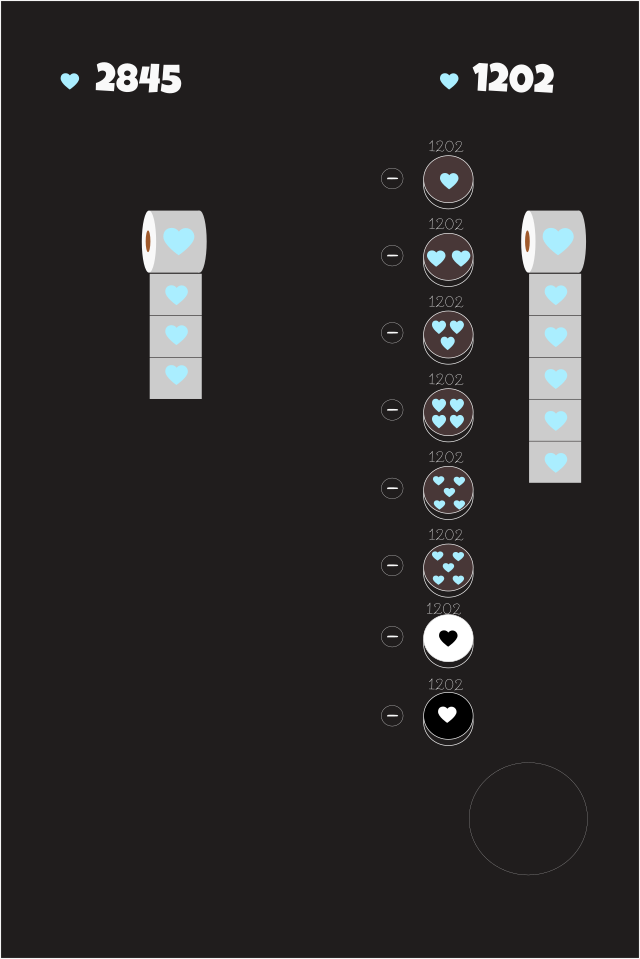
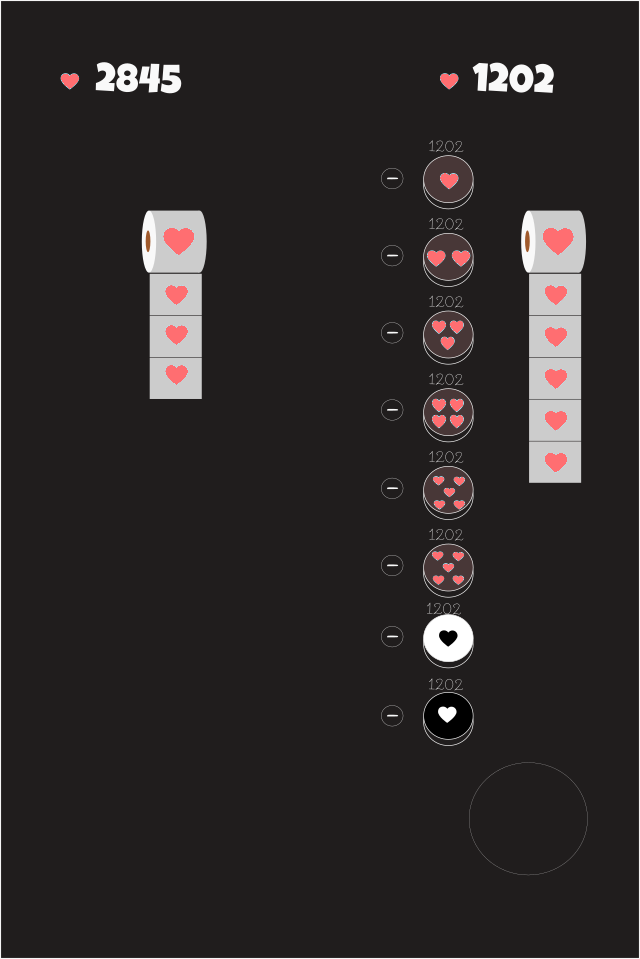
proto + change colors

diff --git a/src/background.js b/src/background.js
@@ -21,7 +21,7 @@ draw_background = function(game){
 	this.g0=G.timerGroup0
 
 	this.color_player=blue
-	this.color_opponent=beige
+	this.color_opponent=rose
 
 	//fond du background
 	Phaser.Sprite.call(this,game,0,0,'back')
@@ -119,8 +119,9 @@ draw_background = function(game){
 	this.player.inputEnabled=true
 
 	//ombre pour symboliser la table
-	this.table_player=drawSprite(this.g3tris,game,"rect",w2,h2,w2,h2,0,black,.2) 
-	this.table_opponent=drawSprite(this.g3tris,game,"rect",0,h2,w2,h2,0,black,.1) 
+	this.table_player=drawSprite(this.g3tris,game,"rect",w2,h2,w2,h2,0,black,.5) 
+	//this.table_opponent_cache=drawSprite(this.g3tris,game,"rect",0,0,w2,h,0,red,.5) 
+	this.table_opponent=drawSprite(this.g3tris,game,"rect",0,h2,w2,h2,0,black,.5) 
 
 	//lignes à traits tirés pour symboliser la chute imminente
 	var longeur_line=w/6
@@ -155,11 +156,11 @@ draw_background = function(game){
 
 	//texte symbolisant l'ombre sous le player et dont la visibilité apparait dans update via the Game.js
 	//player
-	this.text_name_player_shadow = game.add.bitmapText(w4*3+3,py1+3,'lucky_grey','dev', taille) 
+	this.text_name_player_shadow = game.add.bitmapText(w4*3+3,py1+3,'lucky_black','dev', taille) 
 	this.text_name_player_shadow.alpha=.5
 	this.text_name_player_shadow.visible=false
-	this.text_name_player = game.add.bitmapText(w4*3,py1,'lucky_grey','dev', taille) 
-	this.text_level_player = game.add.bitmapText(w4*3,py3,'lucky','lvl ', taille2) 
+	this.text_name_player = game.add.bitmapText(w4*3,py1,'lucky_black','dev', taille) 
+	this.text_level_player = game.add.bitmapText(w4*3,py3,'lucky_black','lvl ', taille2) 
 	this.text_level_player.alpha=0
 	this.text_level_number_player=game.add.bitmapText(w4*3+30,py3,'lucky','1', taille2) 
 	this.text_level_number_player.tint=jaune
@@ -191,7 +192,7 @@ draw_background = function(game){
 	this.text_win_player.visible=false
 	this.text_win_player.alpha=0
 	//OPPONENT 
-	this.text_name_opponent = game.add.bitmapText(w4,py1,'lucky_grey','kill the game', taille) 
+	this.text_name_opponent = game.add.bitmapText(w4,py1,'lucky','kill the game', taille) 
 	this.text_level_opponent = game.add.bitmapText(w4,py3,'lucky','lvl ', taille2) 
 	this.text_level_opponent.alpha=0
 	this.text_level_number_opponent=game.add.bitmapText(w4+30,py3,'lucky','5', taille2) 

diff --git a/src/colors.js b/src/colors.js
@@ -1,14 +1,22 @@
 //var red=0x7BCEE8
-var red=0xDFD5BC
+//var blue=0x9DC4CB
+var red=0xff6e71
 var beige=0xDFD5BC
 //var rose=0xF76676
-var rose=0xFFD6E5
+//var rose=0xfc4349
+//var rose=0xfc4349
+//var rose=0xDC2829
+//var rose=0xFFA1BC
+//var rose=0xFFD6E5
 //var rose=0xDF7685
 //var rose=0xD4A1AF
 //var rose=0xC09493
 //var red=0x25a7ba
 //var red=0xff4f4f
-var blue=0x9DC4CB
+//var blue=0x18A3F4
+//var blue=0x2c3e50
+//ce bleue est la bonne couleur
+//var blue=0x9DC4CB
 //bonne couleur rouge
 //var blue=0xed5555
 
@@ -16,11 +24,18 @@ var blue=0x9DC4CB
 //var blue=0xFFC14D
 //var blue=0xff4f4f
 //var blue=0x25a7ba
-var black=0x002000
+var black=0x030000
 //var rose=0xff99bf
 var grey=0x373535
 var white=0xFFFFFF
-var jaune=0xFFFF00
+var jaune=red
 var green=0x3AB7A9
+var blueG=0x9dc4cb
 //var blueG=0x7BCEE8
-var blueG=0x9DC4CB
+var rose=0x4D4842
+var blue=0xCFC8B5
+
+//var rose=0x736E6B
+//var blue=0xC09D7D//rouge et bleu
+//var blue=0xACCFD1
+//var rose=0xE87F79

diff --git a/src/paper.js b/src/paper.js
@@ -14,13 +14,15 @@ P.draw = function(Group,game,posx,posy) {
 		this.paper[j] = [] 
 		for (var i = 0; i < 1; i++) {
 			this.paper[j][i] = game.add.sprite(0,0,"sprite_paper")
-			this.paper[j][i].alpha=.1
+			this.paper[j][i].tint=black
+
+			this.paper[j][i].alpha=.4
 			this.paper[j][i].fwd = game.add.sprite(0,0,"sprite_paper")
 			//this.paper[j][i].fwd.animations.add('Play')
 			//this.paper[j][i].fwd.animations.play('Play',1,true)
 			this.paper[j][i].fwd.x = 0
 			this.paper[j][i].fwd.y =j*dim.paper 
-			this.paper[j][i].x = 0
+			this.paper[j][i].x = 5
 			this.paper[j][i].y =j*dim.paper 
 
 			// ajout des childs au parent >>this.main

diff --git a/src/hud.js b/src/hud.js
@@ -19,7 +19,7 @@ Timer = function(game,Group){
 
 	function updateCounter() {
 		if (this.flag){
-			if (timer_value == 0) {
+			if (timer_value == 0) {00
 			}
 			else {
 				timer_value--
@@ -42,7 +42,7 @@ Timer = function(game,Group){
 	this.anchor.x=.5
 	this.anchor.y=.5
 
-	//cache au debut	
+	//cache au debut	0
 	this.visible=false
 	this.alpha=0
 	this.spiral.visible=false
